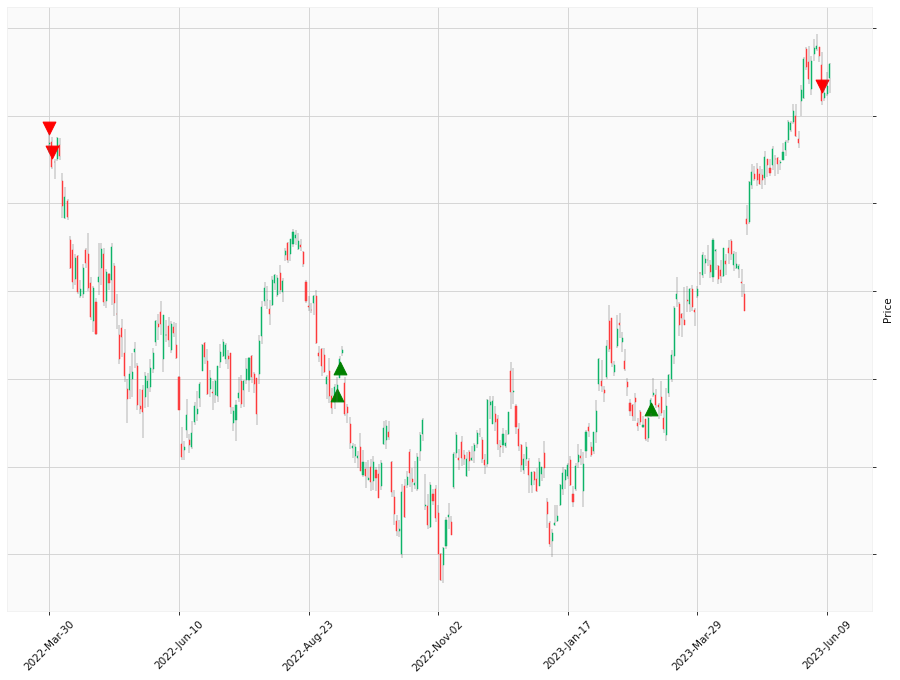
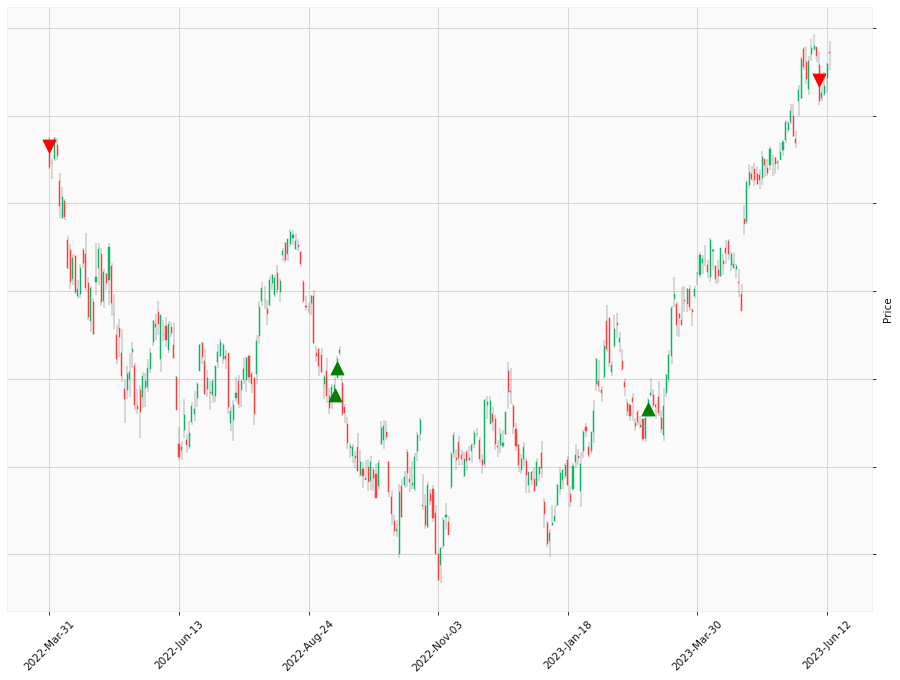
See https://github.com/HappyLabz/HappyLabz_v1/commit/490d70cb81f0e22f0f7809eb507805f35ea0e4c4 from refs/heads/main

diff --git a/MSFT.md b/MSFT.md
@@ -39,50 +39,42 @@
     <tr>
         <td>1</td>
         <td>Short</td>
-        <td>Mar 30 2022 Close</td>
-        <td>-1.77 %</td>
-        <td>1.77 %</td>
-        <td>1.77 %</td>
+        <td>Mar 31 2022 Close</td>
+        <td>-16.15 %</td>
+        <td>16.15 %</td>
+        <td>16.15 %</td>
     </tr>
     <tr>
         <td>2</td>
-        <td>Short</td>
-        <td>Mar 31 2022 Close</td>
-        <td>-16.15 %</td>
-        <td>17.92 %</td>
-        <td>18.20 %</td>
+        <td>Long</td>
+        <td>Sep 08 2022 Close</td>
+        <td>2.30 %</td>
+        <td>18.45 %</td>
+        <td>18.82 %</td>
     </tr>
     <tr>
         <td>3</td>
         <td>Long</td>
-        <td>Sep 08 2022 Close</td>
-        <td>2.30 %</td>
-        <td>20.22 %</td>
-        <td>20.92 %</td>
+        <td>Sep 09 2022 Close</td>
+        <td>-3.47 %</td>
+        <td>14.98 %</td>
+        <td>14.70 %</td>
     </tr>
     <tr>
         <td>4</td>
         <td>Long</td>
-        <td>Sep 09 2022 Close</td>
-        <td>-3.47 %</td>
-        <td>16.75 %</td>
-        <td>16.73 %</td>
+        <td>Mar 03 2023 Close</td>
+        <td>26.67 %</td>
+        <td>41.65 %</td>
+        <td>45.29 %</td>
     </tr>
     <tr>
         <td>5</td>
-        <td>Long</td>
-        <td>Mar 03 2023 Close</td>
-        <td>26.67 %</td>
-        <td>43.42 %</td>
-        <td>47.86 %</td>
-    </tr>
-    <tr>
-        <td>6</td>
         <td>Short</td>
         <td>Jun 07 2023 Close</td>
-        <td>2.62 %</td>
-        <td>40.80 %</td>
-        <td>43.99 %</td>
+        <td>3.37 %</td>
+        <td>38.28 %</td>
+        <td>40.39 %</td>
     </tr>
     
 </table>
@@ -98,23 +90,23 @@
     <tbody>
         <tr>
             <td>MSFT (Buy and Hold)</td>
-            <td>2022-03-30 Close <b>-</b> 2023-06-12 Close</td>
-            <td>5.73 %</td>
+            <td>2022-03-31 Close <b>-</b> 2023-06-13 Close</td>
+            <td>8.43 %</td>
         </tr>
         <tr>
             <td>MSFT (HLT Cumulative % Gain)</td>
-            <td>2022-03-30 Close <b>-</b> 2023-06-12 Close</td>
-            <td>40.80 %</td>
+            <td>2022-03-31 Close <b>-</b> 2023-06-13 Close</td>
+            <td>38.28 %</td>
         </tr>
         <tr>
             <td>MSFT (HLT Reinvested % Gain)</td>
-            <td>2022-03-30 Close <b>-</b> 2023-06-12 Close</td>
-            <td>43.99 %</td>
+            <td>2022-03-31 Close <b>-</b> 2023-06-13 Close</td>
+            <td>40.39 %</td>
         </tr>
         <tr>
             <td>S&P 500 (Buy and Hold)</td>
-            <td>2022-03-30 Close <b>-</b> 2023-06-12 Close</td>
-            <td>-5.43 %</td>
+            <td>2022-03-31 Close <b>-</b> 2023-06-13 Close</td>
+            <td>-3.32 %</td>
         </tr>
     </tbody>
 </table>

diff --git a/index.md b/index.md
@@ -92,35 +92,35 @@
         <h2 id="aapl"><a href="{% link navigation/blocked.md %}">AAPL</a></h2>
         <ul>
             <li>LAST: <b><span style="color: #167816;">Long</span></b> as of close Mar 02 2023</li>
-            <li>DELTA: <b><span style="color: #167816;">37.88 (25.96%)</span></b> as of close<br>Jun 12 2023</li>
+            <li>DELTA: <b><span style="color: #167816;">37.40 (25.63%)</span></b> as of close<br>Jun 13 2023</li>
         </ul>
     </div>
     <div class="box gray" onclick="location.href='{% link navigation/blocked.md %}';">
         <h2 id="amzn"><a href="{% link navigation/blocked.md %}">AMZN</a></h2>
         <ul>
             <li>LAST: <b><span style="color: #b91c1c;">Short</span></b> as of close Jun 08 2023</li>
-            <li>DELTA: <b><span style="color: #167816;">2.32 (1.87%)</span></b> as of close<br>Jun 12 2023</li>
+            <li>DELTA: <b><span style="color: #167816;">2.41 (1.94%)</span></b> as of close<br>Jun 13 2023</li>
         </ul>
     </div>
     <div class="box gray" onclick="location.href='{% link navigation/blocked.md %}';">
         <h2 id="msft"><a href="{% link navigation/blocked.md %}">MSFT</a></h2>
         <ul>
             <li>LAST: <b><span style="color: #b91c1c;">Short</span></b> as of close Jun 07 2023</li>
-            <li>DELTA: <b><span style="color: #167816;">8.47 (2.62%)</span></b> as of close<br>Jun 12 2023</li>
+            <li>DELTA: <b><span style="color: #167816;">10.91 (3.37%)</span></b> as of close<br>Jun 13 2023</li>
         </ul>
     </div>
     <div class="box gray" onclick="location.href='{% link TSLA.md %}';">
         <h2 id="tsla"><a href="{% link TSLA.md %}">TSLA <span style="color:#0369a1;">&bigstar;</span></a></h2>
         <ul>
             <li>LAST: <b><span style="color: #167816;">Long</span></b> as of close Apr 24 2023</li>
-            <li>DELTA: <b><span style="color: #167816;">87.28 (53.69%)</span></b> as of close<br>Jun 12 2023</li>
+            <li>DELTA: <b><span style="color: #167816;">96.16 (59.16%)</span></b> as of close<br>Jun 13 2023</li>
         </ul>
     </div>
     <div class="box gray atUpperPriceLine atLowerPriceLine" onclick="location.href='{% link navigation/blocked.md %}';">
         <h2 id="spy"><a href="{% link navigation/blocked.md %}">SPY</a></h2>
         <ul>
             <li>LAST: <b><span style="color: #167816;">Long</span></b> as of close Mar 14 2023</li>
-            <li>DELTA: <b><span style="color: #167816;">42.07 (10.74%)</span></b> as of close<br>Jun 12 2023</li>
+            <li>DELTA: <b><span style="color: #167816;">44.93 (11.47%)</span></b> as of close<br>Jun 13 2023</li>
         </ul>
     </div>
     <div class="box gray" onclick="location.href='{% link NEXT.md %}';">
